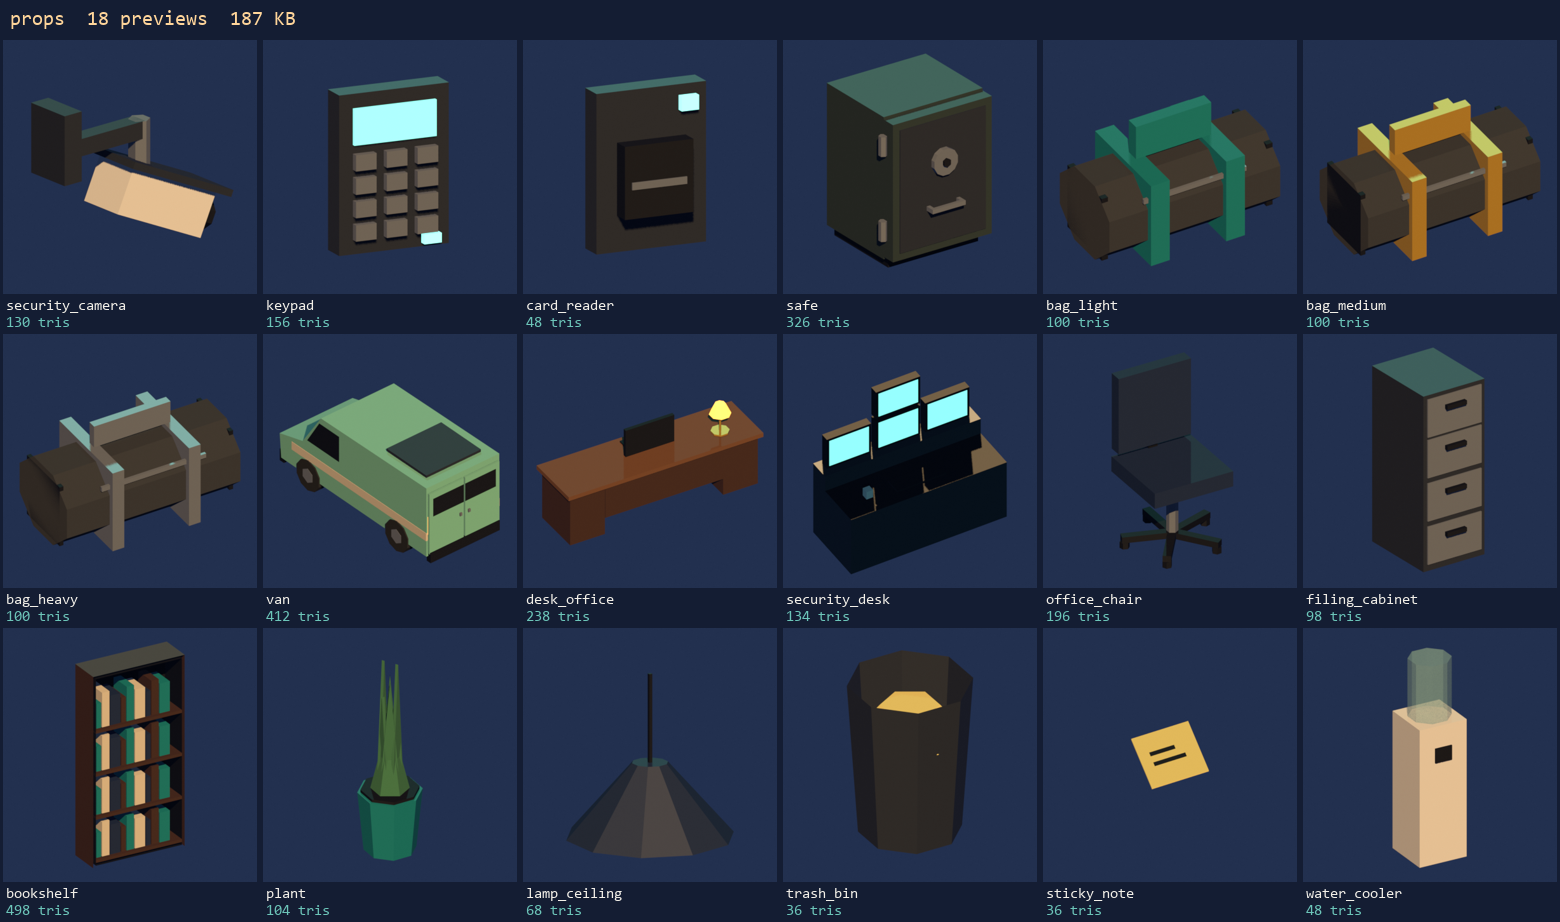
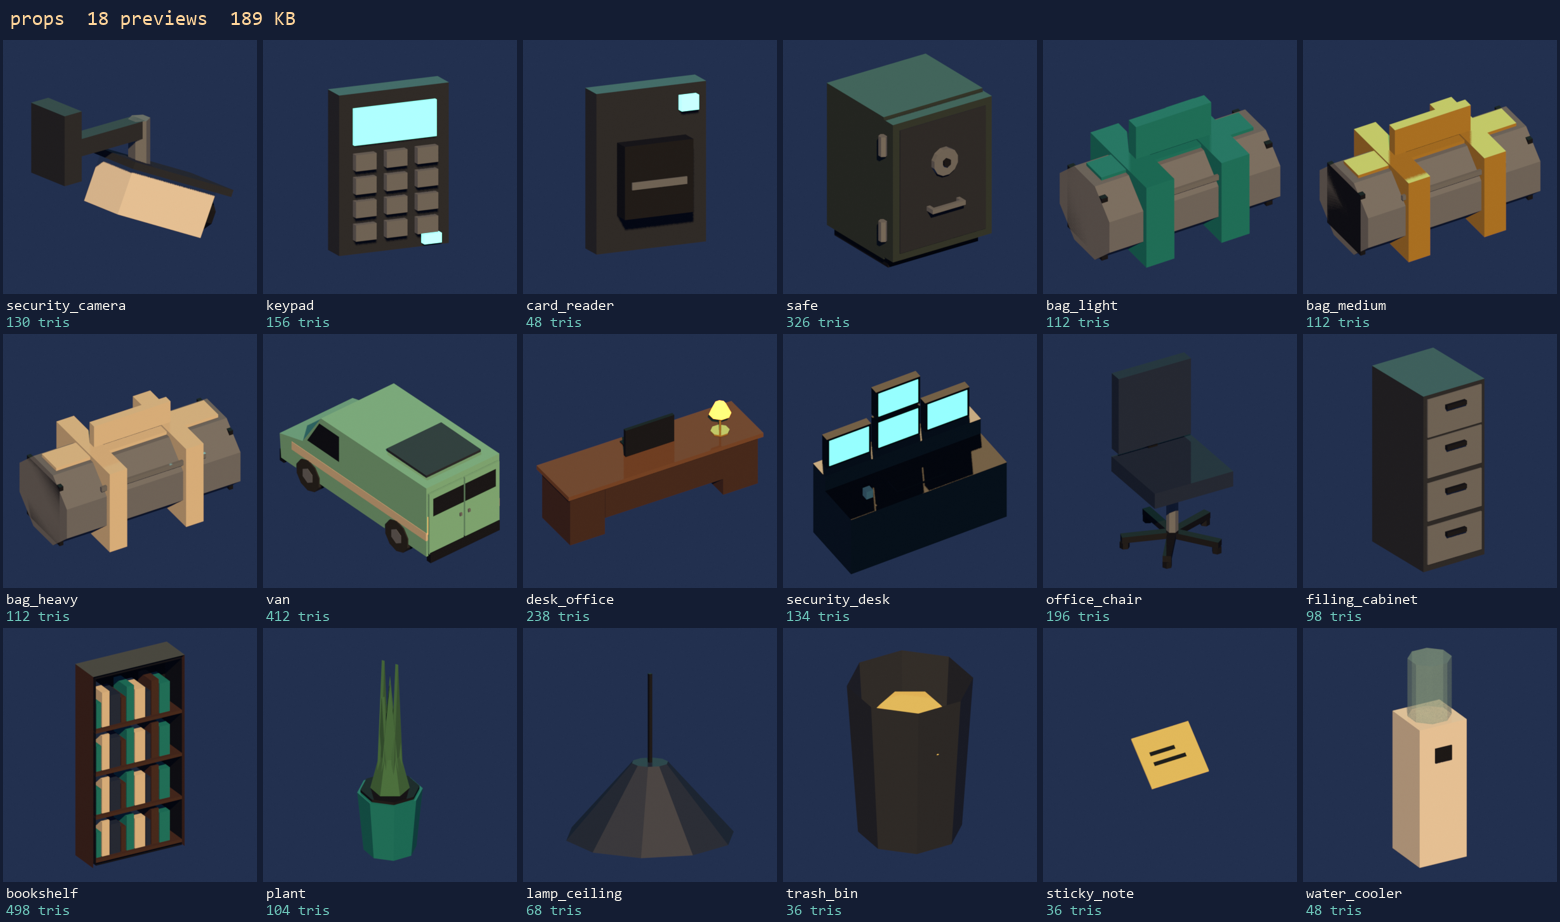
Loot bags read on a dark suit: slate canvas, wide weight straps, top stripe
RJ_BagCanvas (#6f7788) replaces the near-black fabric on bag_*; straps are
wider and a stripe in the weight colour runs along the top, which is what
the 55-degree camera sees on a bag slung across the back: teal (light),
gold (medium), cream (heavy, was steel grey). Palette and material added
to STYLE.md.

Changed region(s): [[0.6769, 0.1215, 1.0, 0.3037], [0.0, 0.4252, 0.1538, 0.6074]]

diff --git a/tools/blender/props_build.py b/tools/blender/props_build.py
@@ -95,7 +95,7 @@ for x in (SW * 0.5 - 0.15, SW * 0.5 + 0.12):
 # ---- loot bags ---------------------------------------------------------------------------
 BAGS = {"light": (0.55, 0.3, "Teal", "jewelry: 90% speed, sprint ok, throw 6 m"),
         "medium": (0.72, 0.38, "Gold", "cash: 75% speed, no sprint, throw 4 m"),
-        "heavy": (0.9, 0.46, "Steel", "gold / paintings: 60% speed, throw 3 m")}
+        "heavy": (0.9, 0.46, "Cream", "gold / paintings: 60% speed, throw 3 m")}
 for wname, (L, R, strap, note) in BAGS.items():
     p = P(f"bag_{wname}", note=f"duffel, long axis X, pivot on the floor under its centre; {note}", elev=35, azim=-30)
     p.extras["rj_weight"] = wname
@@ -104,14 +104,15 @@ for wname, (L, R, strap, note) in BAGS.items():
     for i in range(8):
         a = math.pi * 2 * (i + 0.5) / 8
         oct_.append((R * 0.5 * math.cos(a), R * 0.5 + R * 0.45 * math.sin(a)))
-    p.prism(oct_, -L / 2, L / 2, "Fabric", axis='x')
+    p.prism(oct_, -L / 2, L / 2, "BagCanvas", axis='x')   # lighter than the suit, so it reads on the player
     # end caps a shade darker + straps over the top
     for s in (-1, 1):
         p.box(s * L / 2 - (0.02 if s > 0 else 0), -R * 0.32, R * 0.15, s * L / 2 + (0.02 if s < 0 else 0), R * 0.32, R * 0.85, "Black", bottom=True)
     for x in (-L * 0.22, L * 0.22):
-        p.box(x - 0.03, -R * 0.52, 0.02, x + 0.03, R * 0.52, R * 0.97, strap, bottom=True)
+        p.box(x - 0.045, -R * 0.52, 0.02, x + 0.045, R * 0.52, R * 0.97, strap, bottom=True)
     p.box(-L * 0.22, -0.02, R * 0.97, L * 0.22, 0.02, R * 1.0 + 0.1, strap, bottom=True)   # handle
     p.box(-L * 0.3, -R * 0.47, R * 0.75, L * 0.3, -R * 0.44, R * 0.8, "Steel", bottom=True)  # zip
+    p.box(-L / 2 + 0.03, -R * 0.14, R * 0.9, L / 2 - 0.03, R * 0.14, R * 0.95, strap, bottom=True)  # weight stripe on top (seen from above)
 
 
 # ---- Dot's van ---------------------------------------------------------------------------

diff --git a/tools/blender/rj.py b/tools/blender/rj.py
@@ -39,7 +39,7 @@ PAL = {
     "steel": "#8a9199", "steel_dark": "#3a3f47", "black": "#16171b", "white": "#f2efe8",
     "glass": "#a8dede", "danger": "#e0262f", "amber": "#f2b230", "hatch": "#1b1b1f",
     "safe": "#3d4a45", "plant": "#3f7a55", "van": "#86cdb0", "rubber": "#202125",
-    "fabric": "#34373e", "paper": "#f4e48a", "cash": "#6f9a55",
+    "fabric": "#34373e", "bag": "#6f7788", "paper": "#f4e48a", "cash": "#6f9a55",
     "skin": "#c99a78", "suit": "#2b2b30", "uniform": "#2f4470", "mask": "#f2efe8",
 }
 
@@ -79,6 +79,7 @@ MATS = {
     "VanPaint":  dict(c="van", r=0.4),
     "Rubber":    dict(c="rubber", r=0.9),
     "Fabric":    dict(c="fabric", r=1.0),
+    "BagCanvas": dict(c="bag", r=1.0),       # loot bags: lighter than the suits they're carried on
     "Paper":     dict(c="paper", r=1.0),
     "Cash":      dict(c="cash", r=0.9),
     "Cream":     dict(c="plaster", r=0.8),

diff --git a/ASSETS.md b/ASSETS.md
@@ -155,9 +155,9 @@ Generated-file evidence (one row per file: tool, model version, job id, date, co
 | `keypad` | script `tools/blender/props_build.py` | done | `assets/models/props.glb` | 156 tris. number pad; pivot = centre of the wall cell it hangs on, panel on the -Y (south) face at 1.25 m; child 'keypad_led' starts RJ_Ok (swap to RJ_Danger on a wrong code). Children: `keypad_led`. |
 | `card_reader` | script `tools/blender/props_build.py` | done | `assets/models/props.glb` | 48 tris. keycard slot (bank); pivot = centre of the wall cell it hangs on, panel on the -Y (south) face at 1.25 m; child 'card_reader_led' starts RJ_Ok (swap to RJ_Danger on a wrong code). Children: `card_reader_led`. |
 | `safe` | script `tools/blender/props_build.py` | done | `assets/models/props.glb` | 326 tris. back-room safe, door faces south; child 'safe_door' hinges at the front-left corner (rotate about Y, negative = open outward to the left); 'safe_loot' hides once bagged. Children: `safe_door`, `safe_loot`. |
-| `bag_light` | script `tools/blender/props_build.py` | done | `assets/models/props.glb` | 100 tris. duffel, long axis X, pivot on the floor under its centre; jewelry: 90% speed, sprint ok, throw 6 m. |
-| `bag_medium` | script `tools/blender/props_build.py` | done | `assets/models/props.glb` | 100 tris. duffel, long axis X, pivot on the floor under its centre; cash: 75% speed, no sprint, throw 4 m. |
-| `bag_heavy` | script `tools/blender/props_build.py` | done | `assets/models/props.glb` | 100 tris. duffel, long axis X, pivot on the floor under its centre; gold / paintings: 60% speed, throw 3 m. |
+| `bag_light` | script `tools/blender/props_build.py` | done | `assets/models/props.glb` | 112 tris. duffel, long axis X, pivot on the floor under its centre; jewelry: 90% speed, sprint ok, throw 6 m. |
+| `bag_medium` | script `tools/blender/props_build.py` | done | `assets/models/props.glb` | 112 tris. duffel, long axis X, pivot on the floor under its centre; cash: 75% speed, no sprint, throw 4 m. |
+| `bag_heavy` | script `tools/blender/props_build.py` | done | `assets/models/props.glb` | 112 tris. duffel, long axis X, pivot on the floor under its centre; gold / paintings: 60% speed, throw 3 m. |
 | `van` | script `tools/blender/props_build.py` | done | `assets/models/props.glb` | 412 tris. Dot's van: nose north (-Z), rear doors south (+Z) toward the drop zone; children 'van_door_l'/'van_door_r' hinge at the rear corners (rotate about Y); fits the 4 x 4 Tiled rect lengthwise with room to spare. Children: `van_door_l`, `van_door_r`. |
 | `desk_office` | script `tools/blender/props_build.py` | done | `assets/models/props.glb` | 238 tris. owner's desk, 3 x 1 cells (matches Tiled 'desk'); front = customer side (south), chair side north. |
 | `security_desk` | script `tools/blender/props_build.py` | done | `assets/models/props.glb` | 134 tris. security monitors, 2 x 1 cells; guard sits on the north side facing the screens; the screens (RJ_Screen) face north. |

diff --git a/reference-images/STYLE.md b/reference-images/STYLE.md
@@ -58,7 +58,8 @@ Values are sRGB hex. Swatches are the names used in `rj.py`.
 | | `plant` | `#3f7a55` | Plants |
 | | `van` | `#86cdb0` | Dot's van (mint) |
 | | `rubber` | `#202125` | Tyres |
-| | `fabric` | `#34373e` | Loot bags |
+| | `fabric` | `#34373e` | Body bags, straps, tape |
+| | `bag` | `#6f7788` | Loot bags: slate canvas, lighter than the suits so a carried bag reads from above |
 | | `paper` | `#f4e48a` | Sticky notes (the safe code) |
 | | `cash` | `#6f9a55` | Cash stacks |
 | Cast (stand-ins) | `skin` | `#c99a78` | |
@@ -94,7 +95,7 @@ Every shipped mesh uses only these, named `RJ_<Name>` in the GLB so the game can
 | `RJ_Glass` | glass | Alpha blend, 28% |
 | `RJ_Velvet` | navy_deep | Jewel trays and busts |
 | `RJ_Safe` | safe | Metallic |
-| `RJ_Plant`, `RJ_VanPaint`, `RJ_Rubber`, `RJ_Fabric`, `RJ_Paper`, `RJ_Cash` | | |
+| `RJ_Plant`, `RJ_VanPaint`, `RJ_Rubber`, `RJ_Fabric`, `RJ_BagCanvas`, `RJ_Paper`, `RJ_Cash` | | Loot bags use `RJ_BagCanvas`, with straps and a top stripe in the weight colour: teal (light), gold (medium), cream (heavy) |
 | `RJ_Sodium` | sodium | **Emissive** 4.0: lamps |
 | `RJ_Screen` | teal_light | **Emissive** 2.0: monitors |
 | `RJ_Danger` | danger | **Emissive** 3.0: the only red |
